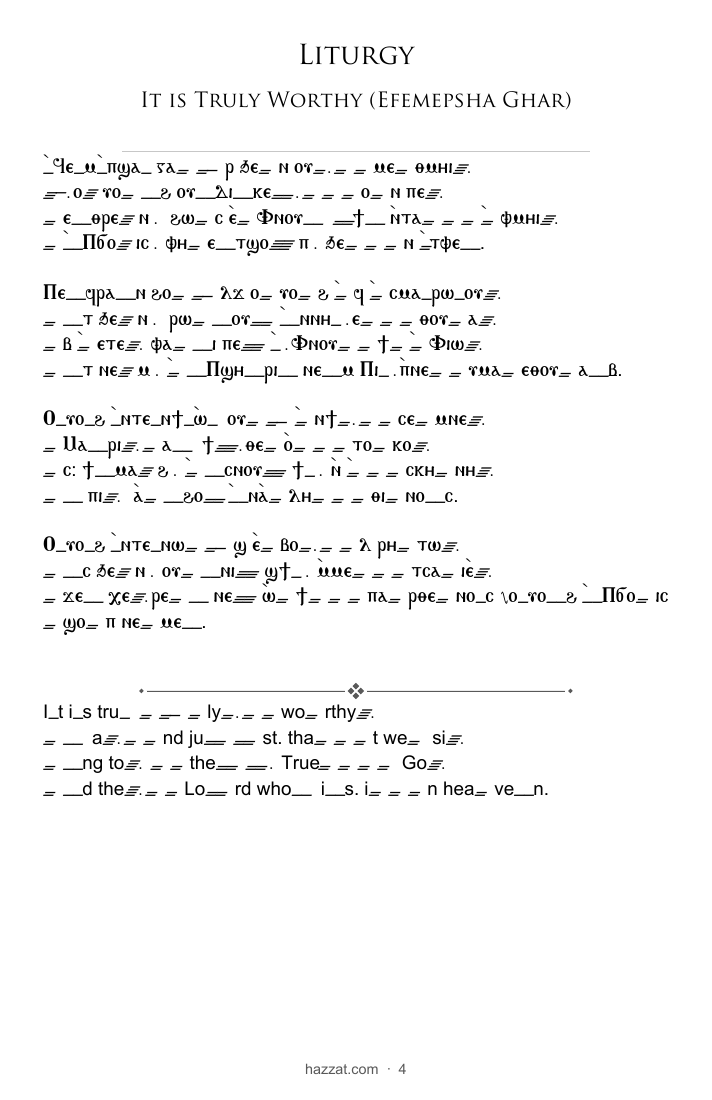
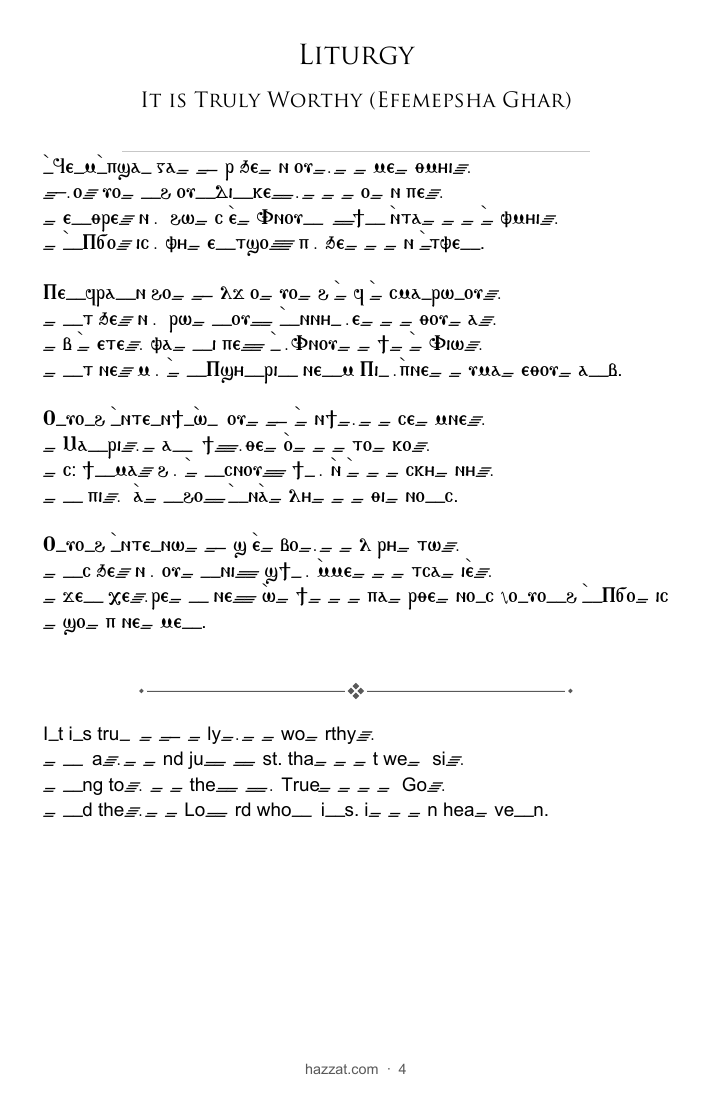
Add breathing room below booklet cross separators

Changed region(s): [[0.0618, 0.6182, 0.7725, 0.7418]]

diff --git a/src/Booklets/BookletPdfGenerator.ts b/src/Booklets/BookletPdfGenerator.ts
@@ -123,6 +123,7 @@ const BODY_FONT_SIZE = 10.5;
 const HAZZAT_FONT_SIZE = 10.5;
 const ARABIC_FONT_SIZE = 12;
 const TOC_LINE_HEIGHT = 13;
+const CROSS_DIVIDER_ADVANCE = 40; // Includes 12pt of extra padding after the ornament.
 const COVER_TITLE_RULE_Y = 315;
 const COVER_TITLE_MAX_WIDTH = 230;
 const COVER_TITLE_BASE_SIZE = 30;
@@ -768,7 +769,7 @@ class BookletWriter {
 
     public drawLanguageDivider(lines: TextRun[][]) {
         // Keep the divider with the next language's opening content, preserving end ornaments.
-        this.ensureSpace(28 + measureOpeningBody(this, lines));
+        this.ensureSpace(CROSS_DIVIDER_ADVANCE + measureOpeningBody(this, lines));
         this.drawCrossDivider();
     }
 
@@ -785,7 +786,7 @@ class BookletWriter {
             this.page.drawLine({ start: { x: center - 3, y }, end: { x: center + 3, y }, thickness: .7, color: gray });
             this.page.drawLine({ start: { x: center, y: y - 4 }, end: { x: center, y: y + 4 }, thickness: .7, color: gray });
         }
-        this.cursorY -= 28;
+        this.cursorY -= CROSS_DIVIDER_ADVANCE;
     }
 
     public drawServiceDivider() {
